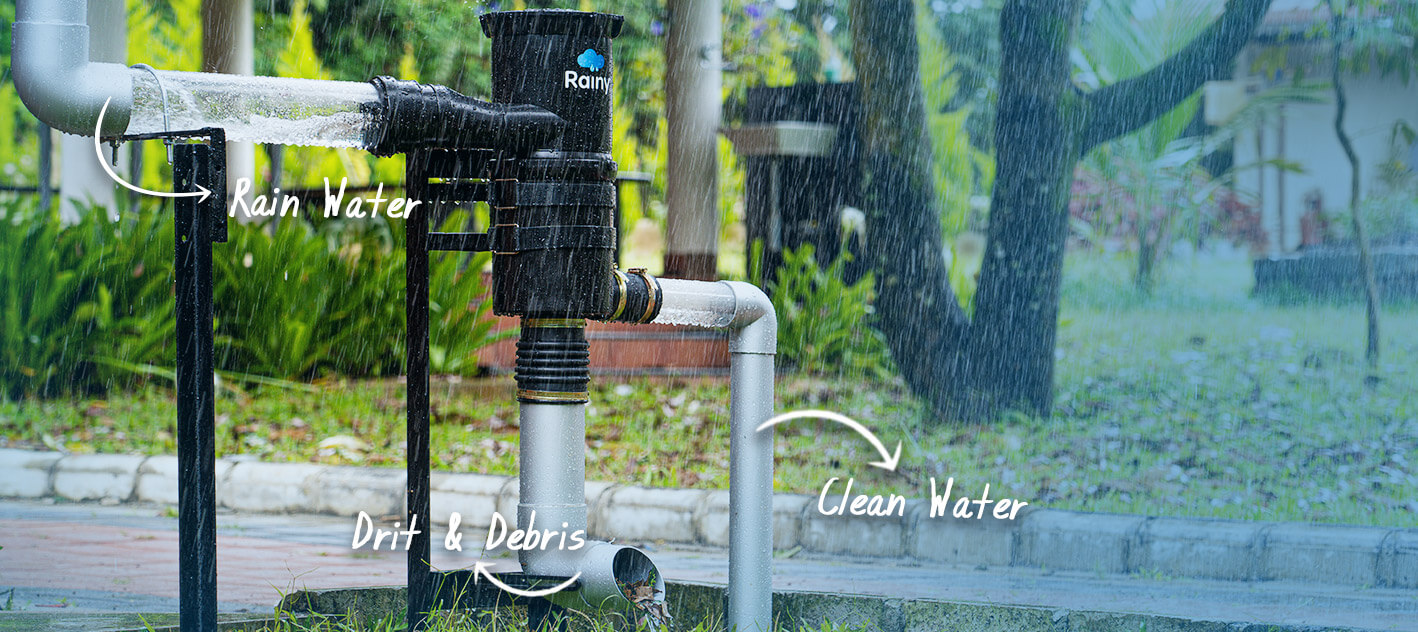
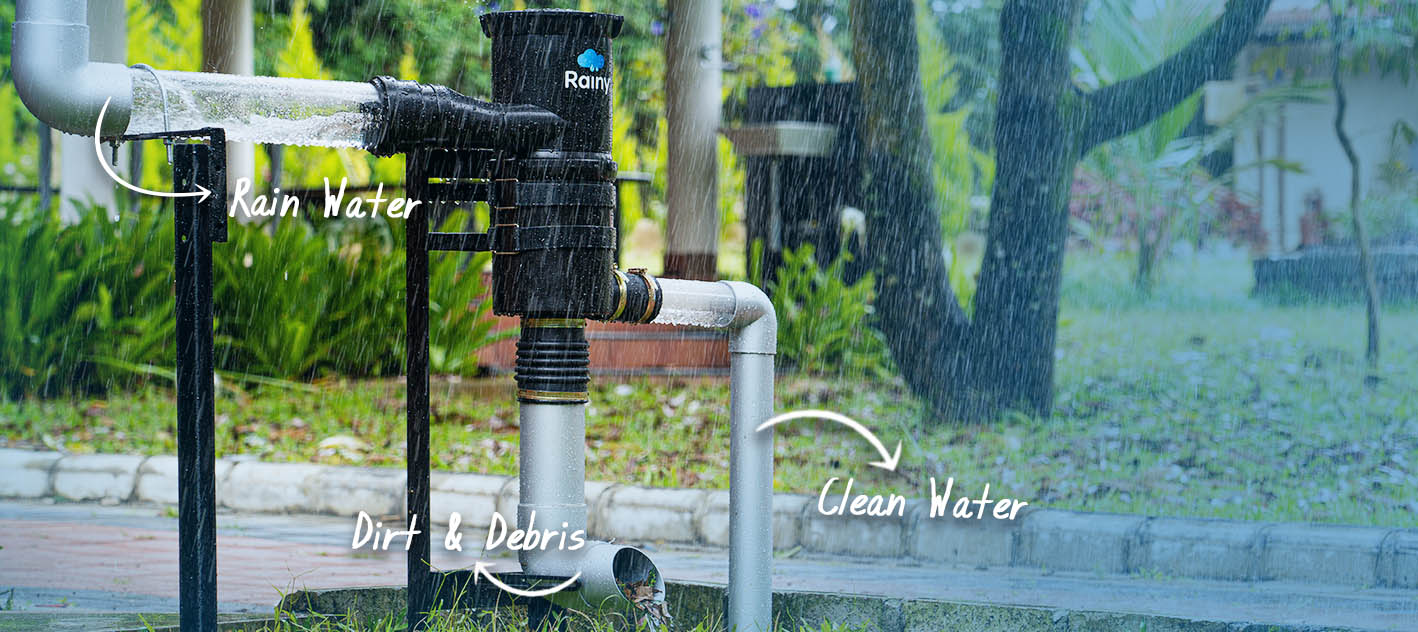
updated new photos

diff --git a/components/Header.js b/components/Header.js
@@ -5,106 +5,116 @@ const Header = () => {
 	return (
 		<Fragment>
 			<div className="test container-fluid main-header">
-				<input type="checkbox" className="menu-toggle" id="menu-toggle" />
-				<div className="mobile-bar">
-					<img src="../static/images/logo/logo.png" className="moblogo" />
-					<label htmlFor="menu-toggle" className="menu-icon">
-						<span></span>
-					</label>
-				</div>
+				<div className="row">
+					<input type="checkbox" className="menu-toggle" id="menu-toggle" />
+					<div className="mobile-bar">
+						<img src="../static/images/logo/logo.png" className="moblogo" />
+						<label htmlFor="menu-toggle" className="menu-icon">
+							<span></span>
+						</label>
+					</div>
 
-				<header className="header container">
-					<a className="navbar-brand" href="/" style={{padding: "0px"}}>
-						<img src="../static/images/logo/logo.png" />
-					</a>
-					<nav>
-						<ul>
-							<li>
-								<Link href="/">
-									<a>Home</a>
-								</Link>
-							</li>
-							<li>
-								<a href="#" className="dropdown-toggle" data-toggle="dropdown">
-									About Us
-								</a>
-								<div className="dropdown-menu dropdown-menu-tip-nw">
-									<a href="/about-us/our-journey" className="dropdown-item">
-										Our Journey
-									</a>
-									<a href="/about-us/in-the-media" className="dropdown-item">
-										In The Media
-									</a>
-									<a href="/about-us/our-team" className="dropdown-item">
-										Our Team
-									</a>
+					<header className="header container">
+						<a className="navbar-brand" href="/" style={{padding: "0px"}}>
+							<img src="../static/images/logo/logo.png" />
+						</a>
+						<nav>
+							<ul>
+								<li>
+									<Link href="/">
+										<a>Home</a>
+									</Link>
+								</li>
+								<li>
 									<a
-										href="/about-us/social-awareness"
-										className="dropdown-item"
+										href="#"
+										className="dropdown-toggle"
+										data-toggle="dropdown"
 									>
-										Social Awareness
+										About Us
 									</a>
-								</div>
-							</li>
-							<li>
-								<a href="/technology">Technology</a>
-							</li>
-							<li>
-								<a href="#" className="dropdown-toggle" data-toggle="dropdown">
-									Products
-								</a>
-								<div className="dropdown-menu dropdown-menu-tip-nw">
-									<a href="/products/rainy-filters" className="dropdown-item">
-										Rainy Filters
-									</a>
+									<div className="dropdown-menu dropdown-menu-tip-nw">
+										<a href="/about-us/our-journey" className="dropdown-item">
+											Our Journey
+										</a>
+										<a href="/about-us/in-the-media" className="dropdown-item">
+											In The Media
+										</a>
+										<a href="/about-us/our-team" className="dropdown-item">
+											Our Team
+										</a>
+										<a
+											href="/about-us/social-awareness"
+											className="dropdown-item"
+										>
+											Social Awareness
+										</a>
+									</div>
+								</li>
+								<li>
+									<a href="/technology">Technology</a>
+								</li>
+								<li>
 									<a
-										href="/products/ground-water-recharge"
-										className="dropdown-item"
+										href="#"
+										className="dropdown-toggle"
+										data-toggle="dropdown"
 									>
-										Groundwater Recharge
+										Products
 									</a>
+									<div className="dropdown-menu dropdown-menu-tip-nw">
+										<a href="/products/rainy-filters" className="dropdown-item">
+											Rainy Filters
+										</a>
+										<a
+											href="/products/ground-water-recharge"
+											className="dropdown-item"
+										>
+											Groundwater Recharge
+										</a>
+										<a
+											href="/products/systems-and-solutions"
+											className="dropdown-item"
+										>
+											Systems & Solutions
+										</a>
+									</div>
+								</li>
+								<li>
+									<a href="/gallery">Gallery</a>
+								</li>
+								<li>
 									<a
-										href="/products/systems-and-solutions"
-										className="dropdown-item"
+										href="#"
+										className="dropdown-toggle diffcolormenu"
+										data-toggle="dropdown"
 									>
-										Systems & Solutions
+										Contact us
 									</a>
-								</div>
-							</li>
-							<li>
-								<a href="/gallery">Gallery</a>
-							</li>
-							<li>
-								<a
-									href="#"
-									className="dropdown-toggle diffcolormenu"
-									data-toggle="dropdown"
-								>
-									Contact us
-								</a>
-								<div className="dropdown-menu dropdown-menu-tip-nw">
-									<a href="/contact-us/enquire" className="dropdown-item">
-										Enquire
-									</a>
-									<a href="/contact-us/dealers" className="dropdown-item">
-										Dealers
-									</a>
-									<a href="/contact-us/downloads" className="dropdown-item">
-										Downloads
-									</a>
-								</div>
-							</li>
-							<li>
-								<img
-									style={{paddingLeft: "1.5em", cursor: "pointer"}}
-									data-toggle="modal"
-									data-target="#googleAnalytics"
-									src="../static/images/icons/globe.png"
-								></img>
-							</li>
-						</ul>
-					</nav>
-				</header>
+									<div className="dropdown-menu dropdown-menu-tip-nw">
+										<a href="/contact-us/enquire" className="dropdown-item">
+											Enquire
+										</a>
+										<a href="/contact-us/dealers" className="dropdown-item">
+											Dealers
+										</a>
+										<a href="/contact-us/downloads" className="dropdown-item">
+											Downloads
+										</a>
+									</div>
+								</li>
+								<li>
+									<img
+										style={{paddingLeft: "1.5em", cursor: "pointer"}}
+										data-toggle="modal"
+										data-target="#googleAnalytics"
+										src="../static/images/icons/globe.png"
+									></img>
+								</li>
+							</ul>
+						</nav>
+					</header>
+				</div>
 			</div>
 			<div
 				className="modal fade"

diff --git a/assets/css/style2.css b/assets/css/style2.css
@@ -960,3 +960,19 @@ h5.mb-0.mb0diff {
     font-weight: 600;
     line-height: 25px;
 }
+
+@media only screen and (max-width: 414px) and (min-width: 100px) {
+    .frmsecimg {
+        background-image: none;
+        padding: 45px 0px 235px 0px;
+        background-repeat: no-repeat;
+        background-position: initial;
+        text-align: center;
+    }
+}
+
+@media only screen and (max-width: 360px) and (min-width: 100px) {
+    .hero-text h1 {
+        margin-top: 50px;
+    }
+}

diff --git a/components/RWHFilters.js b/components/RWHFilters.js
@@ -44,7 +44,7 @@ const RWHFilters = () => {
 							</div>
 						</div>
 						<div className="col-md-4 cntrimg">
-							<img src="../static/images/homepage/rwhf.png" />
+							<img src="../static/images/homepage/rwhf.png" float />
 						</div>
 						<div className="col-md-4">
 							<div className="easyinsta threecntr">

diff --git a/components/Banner.js b/components/Banner.js
@@ -11,7 +11,7 @@ const Banner = () => {
 						alt="Banner"
 					/>
 					<div className="hero-text">
-						<h1 style={{color: "white"}}>RAINY WATER HARVESTING</h1>
+						<h1 style={{color: "white"}}>RAINWATER HARVESTING</h1>
 						<p style={{color: "white"}}>
 							Do you harvest rainwater? Start today!
 						</p>

diff --git a/assets/css/style.css b/assets/css/style.css
@@ -1565,7 +1565,7 @@ p {
 }
 
 .banner {
-    margin-top: 6%;
+    margin-top: 6.2%;
 }
 
 @media only screen and (min-device-width: 1024px) and (max-device-width: 1366px) {
